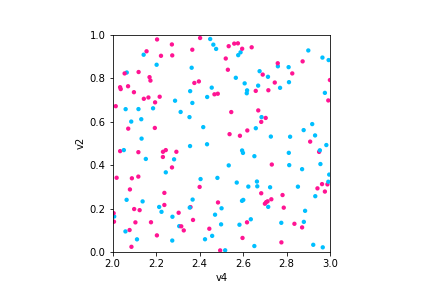
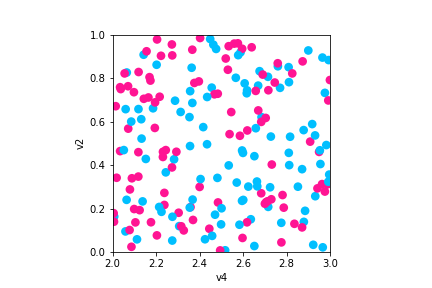
redoing encoders to make translation from math cleaner

diff --git a/draft/sections/implementation.tex b/draft/sections/implementation.tex
@@ -17,7 +17,7 @@
 
 To prototype our model, we implemented the artist classes for the scatter and line plots shown in figure~\ref{fig:code_scatter_line} because they differ in every attribute of our artist: different visual channels \vchannel\ that composite to different marks \vmark\ with different continuities \vindex\.  We make use of the Matplotlib figure and axes artists \cite{hunterArchitectureOpenSource,hunterMatplotlib2DGraphics2007} so that we can initially focus on the data to graphic transformations. 
 
-To generate the images in figure~\ref{fig:code_scatter_line}, we instantiate \mintinline{python}{fig, ax} artists that will contain the new \mintinline{python}{Point, Line} primative objects we implemented based on our topology model. 
+To generate the images in figure~\ref{fig:code_scatter_line}, we instantiate \mintinline{python}{fig, ax} artists that will contain the new \mintinline{python}{Point, Line} primitive objects we implemented based on our topology model. 
 
 \begin{multicols*}{2}
 \begin{minted}{python}
@@ -33,18 +33,19 @@ To generate the images in figure~\ref{fig:code_scatter_line}, we instantiate \mi
 \end{minted}
 \end{multicols*}
 
-We then add the \vartisteq=\mintinline{python}{Point} and  \vartisteq=\mintinline{Line} artists that construct the scatter and line graphics. The arguments to the artist are the data \dtotal=\mintinline{data} that is to be plotted and the aesthetic configuration \vchannel=\mintinline{transforms}. We implement the artists as equivalance classes \vartisteq\ because it would be impractical to implement a new artist for every aesthetic setting, such as one artist for red lines and another for green.
+We then add the \vartisteq=\mintinline{python}{Point} and  \vartisteq=\mintinline{python}{Line} artists that construct the scatter and line graphics. The arguments to the artist are the data \dtotal=\mintinline{python}{data} that is to be plotted and the aesthetic configuration \vchannel=\mintinline{python}{transforms}. We implement the artists as equivalence classes \vartisteq\ because it would be impractical to implement a new artist for every aesthetic setting, such as one artist for red lines and another for green.
 
 
  
 \subsubsection{Artist Class $\vartist^{\prime}$}
 What, why, how>
 %q \circ nu (\xi^{-1}\tau(s)) = rho (s)
-The artist is the piece of the matplotlib architecture that constructs an internal representation of the graphic that the render then uses to draw the graphic. In the prototype artist, the \mintinline{transform} argument is a collection of  visual encoders \vchannel\ and the data bundle \vtotal\ is passed in as \mintinline{data}. By binding both parameters to \vartisteq\ inside \mintinline{__init__}, the \mintinline{draw} method is a fully specified artist \vartist. 
+The artist is the piece of the matplotlib architecture that constructs an internal representation of the graphic that the render then uses to draw the graphic. In the prototype artist, \mintinline{python}{transform} is a dictionary of the form \mintinline{python}|{parameter:(variable, encoder)}| where parameter is a component in \vfiber, variable is a component in \dfiber,  and the \vchannel\ encoders are passed in as functions or callable objects. The data bundle \vtotal\ is passed in as a \mintinline{python}{data} object. By binding data and transforms to \vartisteq\ inside \mintinline{python}{__init__}, the \mintinline{python}{draw} method is a fully specified artist \vartist. 
 \begin{minted}{python}
 class ArtistClass(matplotlib.artist.Artist):
     def __init__(self, data, transforms, *args, **kwargs):
-        # check that constraints are met such that the artist can operate on data with the given transforms
+        # check that constraints are met such that the artist 
+        # can operate on data with the given transforms
         self.data = data 
         self.transforms = transforms
         super().__init__(*args, **kwargs)
@@ -53,8 +54,8 @@ class ArtistClass(matplotlib.artist.Artist):
         # returns K, indexed on fiber then key 
         view = self.data.view() 
         # visual channel encoding applied fiberwise 
-        visual = [nu(view[var]) for var, nu in 
-                    self.transforms]
+        visual = {p: encoder(view.get(f, None)) for 
+                     p, (f, encoder) in self.transforms.items()}
         # reindex from k to s
         # assemble glyph              
         # pass configurations off to the render
@@ -70,10 +71,11 @@ class Point(Collection):
     def draw(self, renderer, *args, **kwargs):
         # query data for a vertex table K
         view = self.data.view('vertex') 
-        visual = [nu(view[var]) for var, nu in self.transforms]
+        visual = {p: encoder(view.get(f, None)) for
+                     p, (f, encoder) in self.transforms.items()}
         # no explicit \xi, k and s have the same indexing
         # construct geometries of the circle glyphs in visual coordinates
-        circles = [circle(center=(x,y), radius=s) for (x, y, s) 
+        circles = [mpath.Path.circle(center=(x,y), radius=s) for (x, y, s) 
                 in zip(visual['x'],visual['y'], visual['s'])] 
         # set attributes of glyphs, these are vectorized 
         # circles and facecolors are lists of the same size
@@ -82,6 +84,7 @@ class Point(Collection):
         # call the renderer that will draw based on properties
         super().draw(renderer, *args, **kwargs)
 \end{minted}
+
 
 \subsubsection{Encoders \vchannel}
 what, why, how?

diff --git a/code/matplottoy/artists/point.py b/code/matplottoy/artists/point.py
@@ -24,29 +24,25 @@ class Point(mcollections.Collection):
         
         # check that the data you're trying to transform 
         # has a way to provide vertex data  
-        assert 'vertex' in data.FB.K['tables']
+        # assert 'vertex' in data.FB.K['tables']
         # check that you've given the required parameters
-        utils.check_constraints(Point, transforms.keys())
-        utils.validate_transforms(data.FB.F, transforms)
+        #utils.check_constraints(Point, transforms.keys())
+        #utils.validate_transforms(data.FB.F, transforms)
 
         self.data = data
         self.transforms = transforms
 
     def draw(self, renderer, *args, **kwargs):
-        view = self.data.view('vertex') #resolve to size
-
-        # call tau step
-        visual = utils.convert_transforms(view, self.transforms)
-           
-        # assembles taus to generate idiom
-        # dictionary here in place of visual(parameter) function
-       
-        visual['s'] = itertools.repeat(visual.get('s', 0.05))
-        visual['facecolors'] = visual.get('facecolors', "C0")
-        #switch out to a marker 
-        self._paths = [mpath.Path.circle(center=(x,y), radius=s)  
-                        for (x, y, s) 
-                        in zip(visual['x'],visual['y'], visual['s'])] 
-       
+        # query data for a vertex table K
+        view = self.data.view('vertex') 
+        visual = {p: encoder(view.get(f, None)) for p, (f, encoder) in self.transforms.items()}
+        # no explicit \xi, k and s have the same indexing
+        # construct geometries of the circle glyphs in visual coordinates
+        circles = [mpath.Path.circle(center=(x,y), radius=s) for (x, y, s) 
+                in zip(visual['x'],visual['y'], visual['s'])] 
+        # set attributes of glyphs, these are vectorized 
+        # circles and facecolors are lists of the same size
+        self._paths = circles
         self.set_facecolors(visual['facecolors'])
+        # call the renderer that will draw based on properties
         super().draw(renderer, *args, **kwargs)

diff --git a/code/matplottoy/encoders/position.py b/code/matplottoy/encoders/position.py
@@ -6,7 +6,7 @@ import numpy as np
 #TODO: write atleast_1d wrapper
 class Identity:
     @staticmethod
-    def convert(value):
+    def __call__(value):
         return np.array(value)
     @staticmethod
     def validate(mtype):
@@ -16,16 +16,17 @@ class Log:
     def __init__(self, base=10):
         self.base = base
 
-    def convert(self, value):
+    def __call__(self, value):
         return np.log(value)/np.log(self.base)
 
     def validate(self, mtype):
         return True
+    
 class Nominal:
     def __init__(self, mapping):
         self._mapping = mapping
         
-    def convert(self, value):
+    def __call__(self, value):
         values = np.atleast_1d(np.array(value, dtype=object))
         return np.array([self._mapping[v] for v in values])
 

diff --git a/draft/main.tex b/draft/main.tex
@@ -1,13 +1,13 @@
 \documentclass[letterpaper,onecolumn,titlepage]{Ythesis}
 
 \usepackage[utf8]{inputenc} %utf-8 support
-\usepackage{minted} % syntax highlighting
-\setminted[python]{linenos}
 \usepackage[dvipsnames]{xcolor} %text color + lots of names
 \newcommand{\note}[1]{\textcolor{Magenta}{#1}}  
 \usepackage{textcomp} % degree
 \usepackage{url} % hyperlinks\usepackage{tikz} %diagrams
 \usepackage{subfiles} % separate files for sections
+\usepackage{minted}
+\setminted[python]{frame=lines,framesep=2mm,baselinestretch=1.2,linenos}
 \usepackage{array} % array typesetting
 \usepackage{multirow} % col/row spans
 \usepackage{tabulary} % dynamic width tables

diff --git a/code/matplottoy/encoders/color.py b/code/matplottoy/encoders/color.py
@@ -10,7 +10,7 @@ class Identity:
         return mtype in ['nominal']
         
     @staticmethod
-    def convert(value):
+    def __call__(value):
         values = np.atleast_1d(np.array(value, dtype=object))
         return [mcolors.to_rgba(v) for v in values]
 
@@ -21,7 +21,7 @@ class Categorical:
         assert(mcolors.is_color_like(color) for color in mapping.values())
         self._mapping = mapping
 
-    def convert(self, value):
+    def __call__(self, value):
         values = np.atleast_1d(np.array(value, dtype=object))
         return [mcolors.to_rgba(self._mapping[v]) for v in values]
 

diff --git a/code/matplottoy/artists/line.py b/code/matplottoy/artists/line.py
@@ -22,7 +22,7 @@ class Line(mcollections.LineCollection):
         """
         super().__init__(None, *args, **kwargs)
         assert 'edge' in data.FB.K['tables']
-        utils.check_constraints(Line, transforms.keys())
+        utils.check_constraints(Line, transforms)
         utils.validate_transforms(data.FB.F, transforms)
      
         self.data = data

diff --git a/notes/writing.md b/notes/writing.md
@@ -3,9 +3,9 @@ What type of paper?
 *  systems: the research contribution of a systems paper is the discussion of architectural design choices and abstractions in a framework or library, not just a single application. 
 
 What does it need?
-* However, before you write up the paper about that hammer, I urge you to construct an understanding what kind of nails it can handle. Characterize, atleast with some high-level arguments, the kinds of problems where your newtechnique shines as opposed to those where it performs poorly
-* having a sentence near the end of the introduction that starts, “The contribution of this work is”, and of using bulleted lists if there aremultiple contributions. 
-    They are often quite different than the original goals of the project, and often can only be determinedin retrospect. What can we do that wasn’t possible before? How can we dosomething better than before? What do we know that was unknown or unclear before?
+* However, before you write up the paper about that hammer, I urge you to construct an understanding what kind of nails it can handle. Characterize, at least with some high-level arguments, the kinds of problems where your new technique shines as opposed to those where it performs poorly
+* having a sentence near the end of the introduction that starts, “The contribution of this work is”, and of using bulleted lists if there are multiple contributions. 
+    They are often quite different than the original goals of the project, and often can only be determined n retrospect. What can we do that wasn’t possible before? How can we do something better than before? What do we know that was unknown or unclear before?
 *  Am So Unique: explain how it is different than what has already been done. All research takes place in some kind of intellectual context, and your job asauthor is to situate what you have done within a framework of that context. Agood previous work section is a mini-taxonomy of its own, where you decide on meaningful categorization given your specific topic.
      * explain why this previous work does not itself solve your problem, and what specific limitations of that previous work your approach does address. Every paper you cite in the previous work section is a fundamentalchallenge to the very existence of your project
 * three choices: cite your source; delete the assertion fromyour paper; or explicitly tag the statement as your observation, your conjecture,or an explanation of your results
